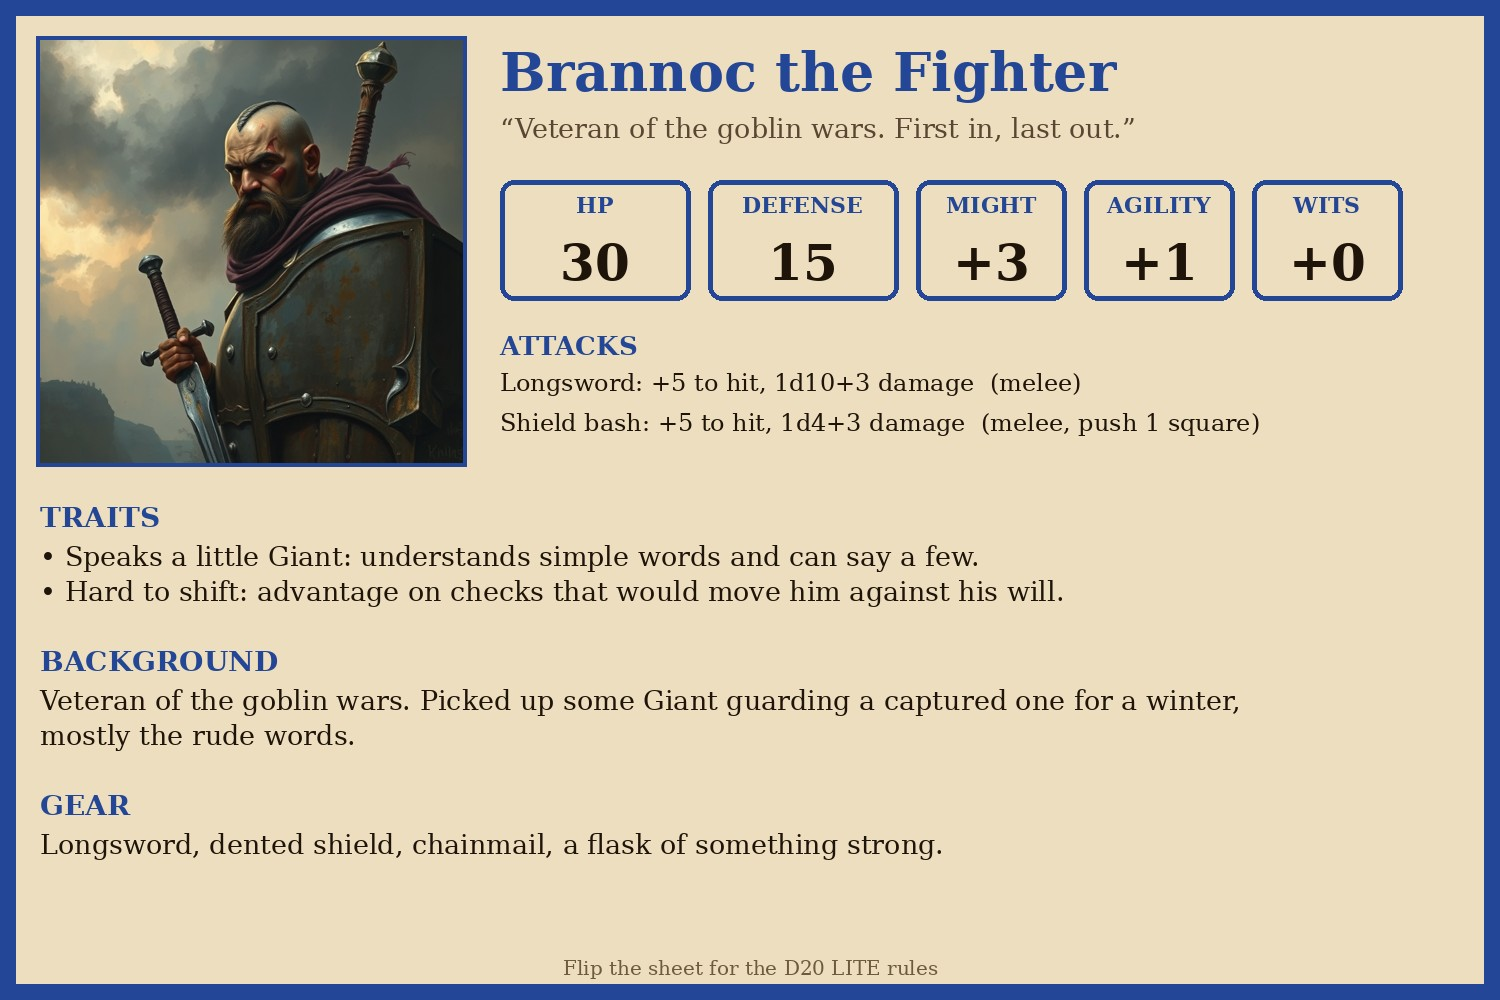
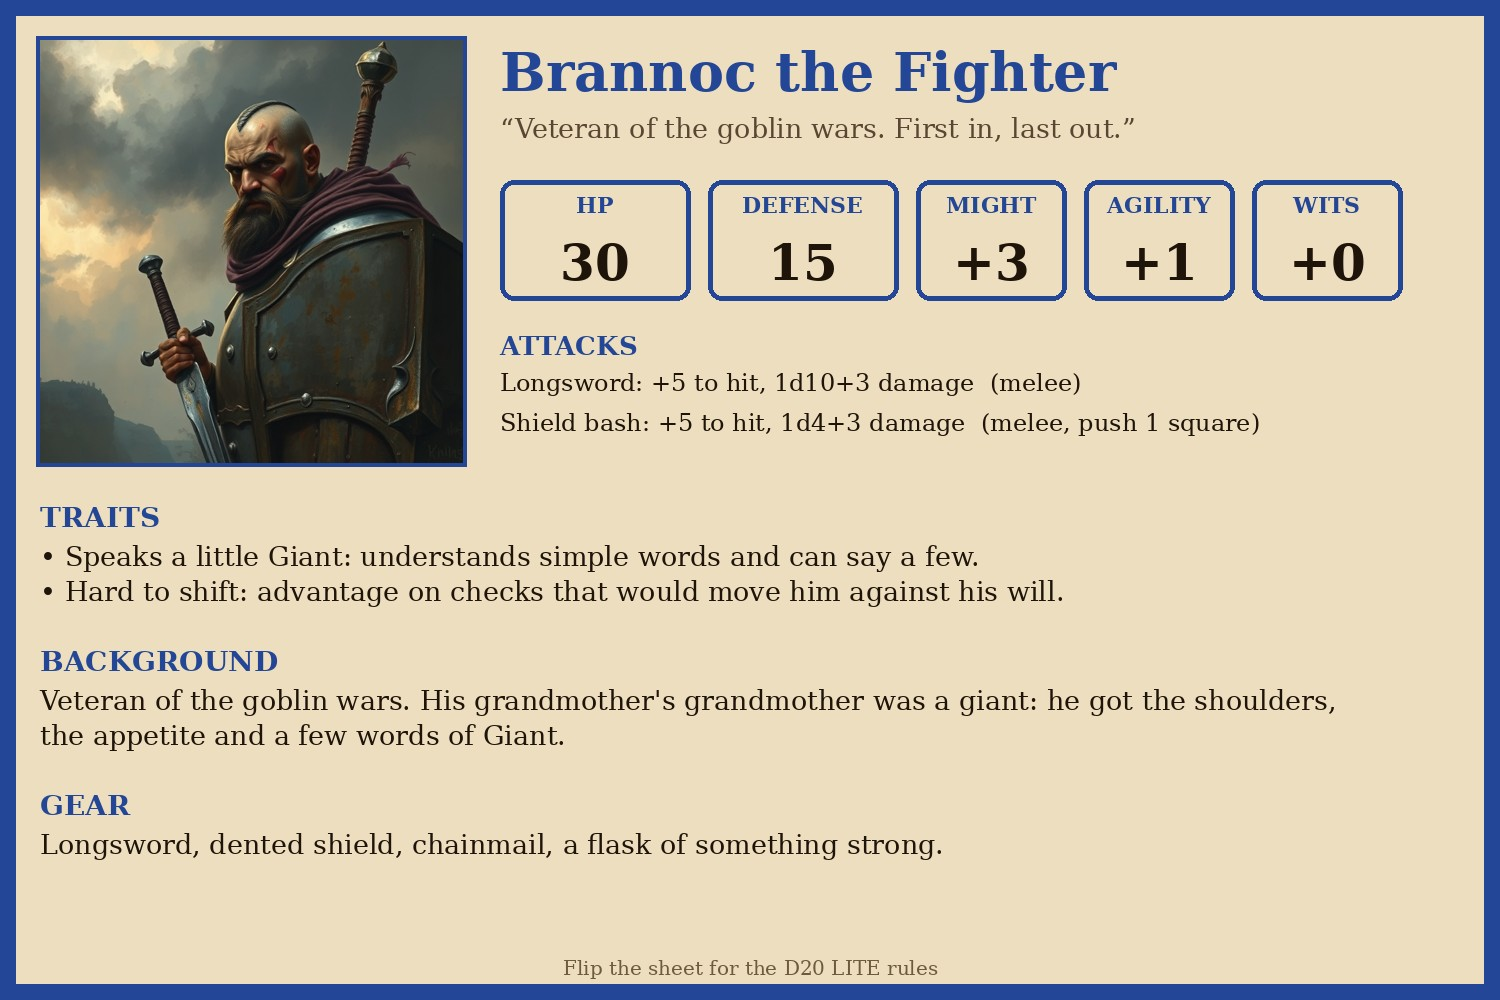
Hero sheet text: Brannoc's giant heritage, Maelis' oath, trimmed gear

Changed region(s): [[0.0307, 0.682, 0.8893, 0.744]]

diff --git a/content.py b/content.py
@@ -56,7 +56,7 @@ HEROES = [
          blurb="Veteran of the goblin wars. First in, last out.",
          traits=["Speaks a little Giant: understands simple words and can say a few.",
                  "Hard to shift: advantage on checks that would move him against his will."],
-         background="Veteran of the goblin wars. Picked up some Giant guarding a captured one for a winter, mostly the rude words.",
+         background="Veteran of the goblin wars. His grandmother's grandmother was a giant: he got the shoulders, the appetite and a few words of Giant.",
          gear="Longsword, dented shield, chainmail, a flask of something strong.",
          portrait="a scarred armoured knight with longsword and dented shield, stern face, stormy sky",
          cards=[
@@ -79,8 +79,8 @@ HEROES = [
          blurb="Battle priest of the Dawn. Keeps everyone breathing.",
          traits=["Healer: stabilising a downed ally is automatic for her (no roll), and still just one action.",
                  "Dawn lore: knows the dying, the undead and what holy symbols mean."],
-         background="Battle priest of the Dawn. Keeps everyone breathing, whether they like it or not.",
-         gear="Flanged mace, sun pendant, bandages, a small pot of honey for bribing children.",
+         background="Battle priest of the Dawn. Swore an oath at the Dawn altar never to leave a wounded soul behind.",
+         gear="Flanged mace, sun pendant, bandages.",
          portrait="a stout middle-aged battle priestess in chainmail holding a flanged mace, a golden sun pendant on her chest, kind stern face, braided hair, warm light",
          cards=[
              ("Mending Touch", "Heal an adjacent ally 2d8+3.",
@@ -103,7 +103,7 @@ HEROES = [
          traits=["Arcane lore: recognises magic items, runes and spells on sight.",
                  "Old friends: tutored the young princess in magic; she trusts him."],
          background="Royal court wizard. Fragile, clever and stubborn. Tutor to the princess, and not about to lose her.",
-         gear="Crooked staff, spellbook, star-embroidered robe, a pipe he is not allowed to light indoors.",
+         gear="Crooked staff, spellbook, star-embroidered robe, a pipe.",
          portrait="an old bearded wizard with a crooked staff and star-embroidered robe, arcane glow",
          cards=[
              ("Fireball", "3x3 area: 3d6 fire, Agility DC 14 for half. Burns wicker shields to ash.",
